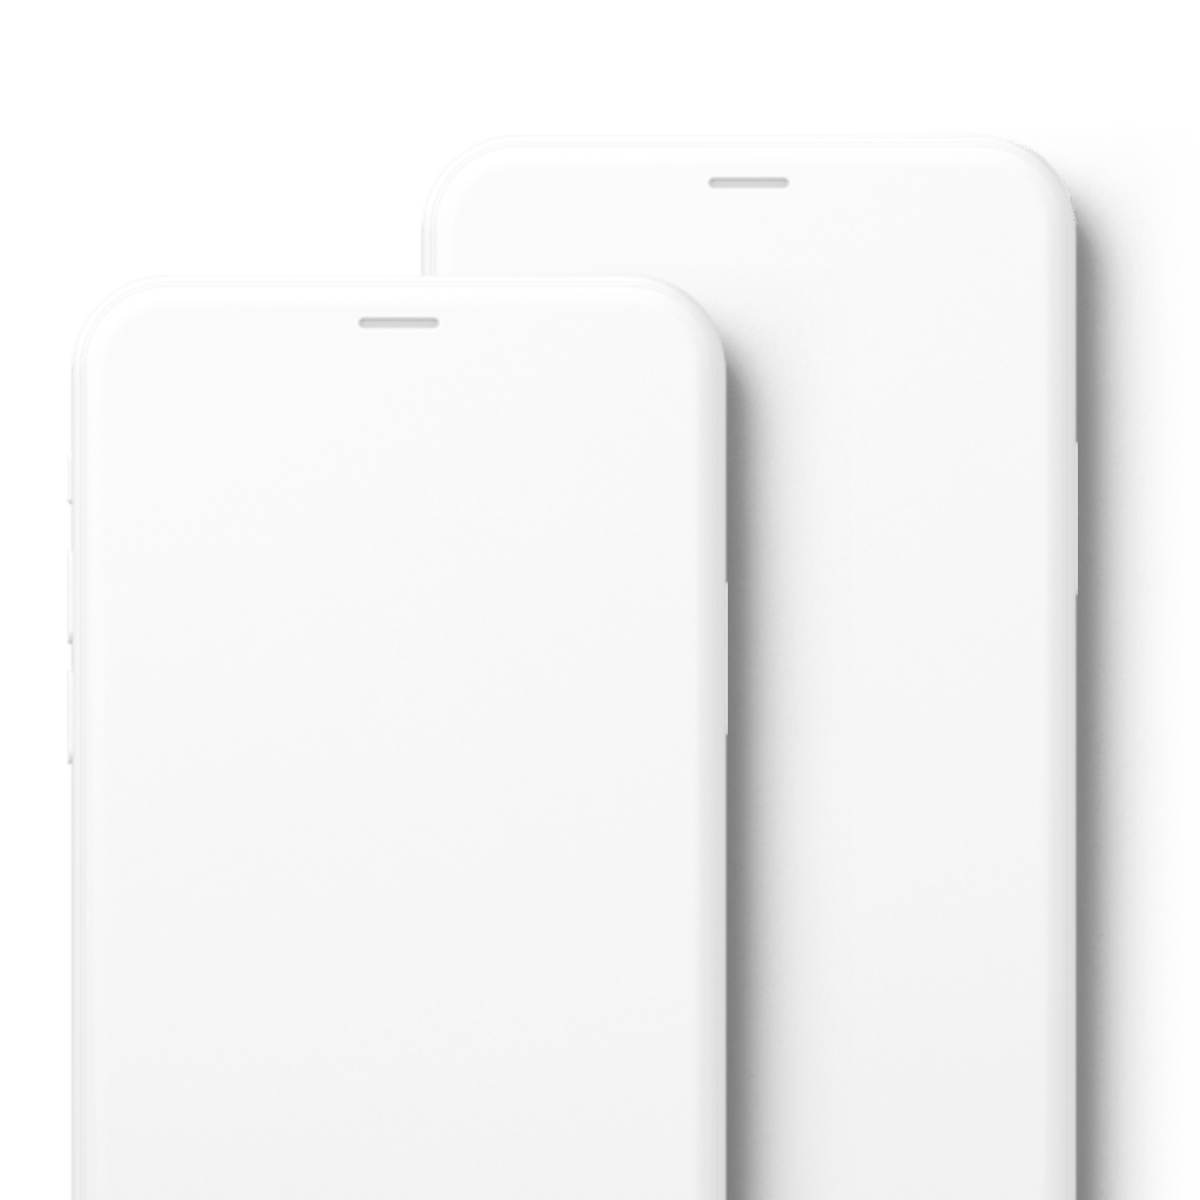
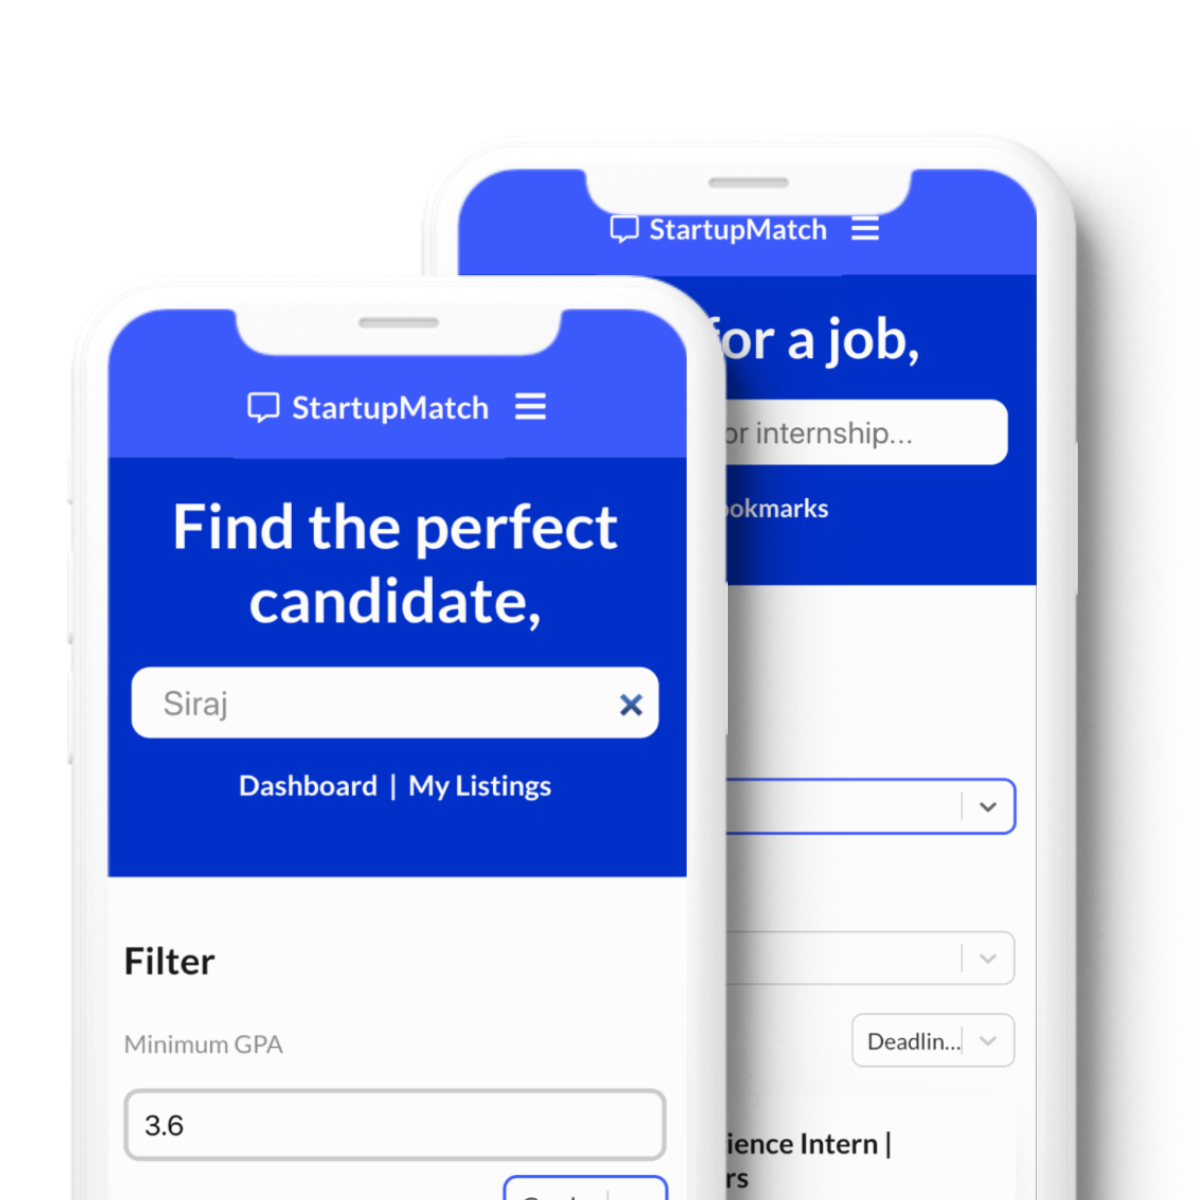
add website info

diff --git a/src/views/StartupMatch.js b/src/views/StartupMatch.js
@@ -60,61 +60,76 @@ export default class StartupMatch extends Component {
                     </section>
                 </article>
 
-                <article className="case locked">
+                <article className="case">
                     <h2><span>01.</span> Planning</h2>
                     <div className="row">
-                        <div className="six columns">
+                        <div className="twelve columns">
+                            <h3>Users and Research</h3>
                             <p>
-                                Contrary to popular belief, Lorem Ipsum is not simply random text. It has roots in a
-                                piece of classical
-                                Latin literature from 45 BC, making it over 2000 years old. Richard McClintock, a Latin
-                                professor at
-                                Hampden-Sydney College in Virginia, looked up one of the more obscure Latin words,
-                                consectetur, from
-                                a Lorem Ipsum passage, and going through the cites of the word in classical literature,
-                                discovered
-                                the undoubtable source. Lorem Ipsum comes from sections 1.10.32 and 1.10.33 of "de
-                                Finibus Bonorum et
-                                Malorum"
-                            </p>
-                        </div>
-                        <div className="six columns">
-                            <p>
-                                This book is a treatise on the
-                                theory of ethics, very popular during the Renaissance.
-                                The first line of Lorem Ipsum, "Lorem ipsum
-                                dolor sit amet..", comes from a line in section 1.10.32. The standard chunk of Lorem
-                                Ipsum used
-                                since the 1500s is reproduced below for those interested. Sections 1.10.32 and 1.10.33
-                                from "de
-                                Finibus Bonorum et Malorum" by Cicero are also reproduced in their exact original form,
-                                accompanied
-                                by English versions from the 1914 translation by H. Rackham.
+                                <a href="https://founders.illinois.edu" className="box-link" target="_blank" rel="noreferrer noopener">Founders</a> aims to promote startup creation, funding and growth within the University of Illinois Urbana-Champaign.
+                                At the request of many of its supported startups Founder's is making a job board for UIUC students to gain experience
+                                working in both their field and in a startup environment. The primary function of the job board is to allow <a href="https://entrepreneurship.illinois.edu/startups/" className="box-link" target="_blank" rel="noreferrer noopener">UIUC
+                                startups</a> to post job listings and allow students of the university to find and apply to relevant positions.
+
+                            </p><br /><p>Due to these core actions being integral
+                                to the purpose of the job board, I decided that two completely seperate user flows, and therefore user experiences, with necessary within the same
+                                interface. The first one for the startups to maintain listings, search for students and update their company's profile and the other for students
+                                to hunt for positions, go through with applying to said positions and update their personal profiles for startup's to view. Pictured below is the user flow
+                                for the startup's posting jobs and filtering through applications.
                             </p>
                         </div>
                     </div>
+                    <div className="row">
+                        <img src="/images/jobboard-userflow.png" alt="Job Board User flow" className="columns twelve"/>
+                    </div>
+                    <div className="row">
+                        <div className="twelve columns">
+                            <h3>Architecture</h3>
+                            <p>
+                                From the aforementioned user flow, in addition to a general list of required documentation pages, a list of necessary webpages
+                                was created for the application. This list was subsequently visualized into a sitemap with paths that connect
+                                intended user flows and likely paths of interactions. In addition to the paths each page has been placed into a category based
+                                on its purposed. The left part of the map, beneath the reference pages, represents webpages accessible by a student or applicant, while the opposite side is for the startups.
+                            </p>
+                        </div>
+                    </div>
+                    <div className="row">
+                        <img src="/images/jobboard-sitemap.png" alt="Job Board Sitemap" className="columns twelve"/>
+                    </div>
                     <h2><span>02.</span> Prototyping</h2>
                     <p>
-                        Contrary to popular belief, Lorem Ipsum is not simply random text. It has roots in a piece of
-                        classical
-                        Latin literature from 45 BC, making it over 2000 years old. Richard McClintock, a Latin
-                        professor at
-                        Hampden-Sydney College in Virginia, looked up one of the more obscure Latin words, consectetur,
-                        from
-                        a Lorem Ipsum passage, and going through the cites of the word in classical literature,
-                        discovered
-                        the undoubtable source. Lorem Ipsum comes from sections 1.10.32 and 1.10.33 of "de Finibus
-                        Bonorum et
-                        Malorum" (The Extremes of Good and Evil) by Cicero, written in 45 BC. This book is a treatise on
-                        the
-                        theory of ethics, very popular during the Renaissance. The first line of Lorem Ipsum, "Lorem
-                        ipsum
-                        dolor sit amet..", comes from a line in section 1.10.32. The standard chunk of Lorem Ipsum used
-                        since the 1500s is reproduced below for those interested. Sections 1.10.32 and 1.10.33 from "de
-                        Finibus Bonorum et Malorum" by Cicero are also reproduced in their exact original form,
-                        accompanied
-                        by English versions from the 1914 translation by H. Rackham.
+                        After defining what the user experience of the web app will need to encompass, I moved forward with prototyping
+                        components of the job board itself with paper wireframes in order to quickly compare options for layouts and interactions.
+                        Below are wireframes of a navigation bar, card for job listings, icons, individual page layouts and their mobile equivalents.
                     </p>
+                    <div className="row">
+                        <img src="/images/jobboard-wireframe-1.jpg" alt="Job Board Wireframes 1" className="columns four"/>
+                        <img src="/images/jobboard-wireframe-2.jpg" alt="Job Board Wireframes 2" className="columns four"/>
+                        <img src="/images/jobboard-wireframe-3.jpg" alt="Job Board Wireframes 3" className="columns four"/>
+                    </div>
+                    <p>
+                        Lastly, before making high-fidelity mockups, I developed a visual style guide for components within the application
+                        to have uniform branding. This stylesheet can be seen below.
+                    </p>
+                    <div className="row">
+                        <img src="/images/job-board-styles.png" alt="Job Board Visual Style Sheet" className="columns twelve"/>
+                    </div>
+                    <h2><span>02.</span> Final Design</h2>
+                        <div className="row">
+                            <img src="/images/startupmatch/jobs.png" alt="Job Board Final 1" className="columns six"/>
+                            <img src="/images/startupmatch/login.png" alt="Job Board Final 2" className="columns six"/>
+                        </div>
+                        <div className="row">
+                            <img src="/images/startupmatch/newlisting.png" alt="Job Board Final 3" className="columns six"/>
+                            <img src="/images/startupmatch/settings.png" alt="Job Board Final 4" className="columns six"/>
+                        </div>
+                    <h2><span>03.</span> Development</h2>
+                    <div className="row">
+                        <p>The final design was implemented using React.JS with Redux. The user interface was designed with a
+                        component system in mind from the wireframe stage so the translation into a frontend interface using
+                        a JavaScript framework was a natural one. The content is fed from a mySQL GCP database through a Django
+                        REST API backend.</p>
+                    </div>
                 </article>
             </main>
         )

diff --git a/src/views/Music.js b/src/views/Music.js
@@ -1,0 +1,104 @@
+import React, { Component } from 'react';
+
+import '../css/case.css';
+
+const styleTemp = {
+    backgroundColor: "#44C1BB",
+    backgroundImage: "url(\"/images/music.png\")",
+};
+
+export default class Music extends Component {
+    state = {
+
+    };
+
+    componentDidMount() {
+        document.title = "Siraj Chokshi - Music Streaming UI";
+        window.scrollTo(0, 0);
+    }
+
+    render () {
+        return (
+            <main>
+                <section className="project-header-card mobile" style={styleTemp} />
+                <div className="info mobile">
+                    <h2>Music Streaming UI</h2>
+                    <h3>2017 &middot; UI/UX Design</h3>
+                </div>
+                <section className="project-header-card" style={styleTemp}>
+                    <div className="info">
+                        <h2>Music Streaming UI</h2>
+                        <h3>2017 &middot; UI/UX Design</h3>
+                    </div>
+                </section>
+                <article className="row" id="sub-header">
+                    <section className="columns four">
+                        <h3>Scope</h3>
+                        <ul>
+                            <li style={{width: "90%"}}>Design a human-centered user interface for a music streaming
+                                mobile application.
+                            </li>
+                        </ul>
+                    </section>
+                    <section className="columns four">
+                        <h3>Skills</h3>
+                        <ul>
+                            <li>User Interface Design</li>
+                            <li>User Experience Design</li>
+                            <li>Rapid Prototyping</li>
+                            <li>Visual Design</li>
+                        </ul>
+                    </section>
+                    <section className="columns four">
+                        <h3>Tools</h3>
+                        <ul>
+                            <li>Figma</li>
+                            <li>Balsalmiq</li>
+                            <li>Photoshop</li>
+                        </ul>
+                    </section>
+                </article>
+
+                <article className="case">
+                    <h2><span>01.</span> Planning</h2>
+                            <p>I started out by looking through several popular music playing services (i.e; Spotify,
+                                Deezer and Apple Music). I then noted what I liked or disliked about said services and
+                                created guidelines towards what was necessary in the UI of music streaming applications.
+                                I aimed to make my interface intuitive, easy to use and comfortable to operate. My first
+                                plans were sketched with pen on paper and I then moved to Balsamiq for some low-fi mockups.
+                            </p>
+                    <div className="twelve columns">
+                        <img loading="lazy" src="/images/music/planning.png" alt="Music UI Paper Prototype" />
+                    </div>
+                    <h2><span>02.</span> Design</h2>
+                    <p>In Balsamiq I consolidated my many drafts into one uniform design system. When creating low-fi
+                        mockups and wireframes I put the majority of my focus on the layout of elements as well as their
+                        size. After being satisfied by the mockups I had created in Balsamiq I started to plan out the
+                        final design. I used the low-fi mockups as references to create a fully featured interface in
+                        Figma. At this stage, after creating some icons in Illustrator, I decided to use a dark theme
+                        as the focus for music streaming is the music and not the visuals. I also created an accent
+                        gradient in a teal color to compliment the interface's dark UI.
+                    </p>
+                    <div className="twelve columns">
+                        <img loading="lazy" src="/images/music/wireframe.png" alt="Music UI Wireframe" />
+                    </div>
+                    <h2><span>03.</span> Result</h2>
+                    <p>Once I had exported my final screens from Figma I created a Photoshop mockup with a basic
+                        interaction. The design features a dark interface with a teal gradient accent and offers
+                        a search feature, menu, music player and database. Design choices were made in order
+                        to create a convenient user experience such as a right aligned play button on album
+                        and artist pages for the majority of users who are right-handed. Users can
+                        follow artists, click expanded menus on songs, see an artist's most played songs,
+                        view their time in a song with the bottom progress bar and more.</p>
+                    <div className="row">
+                        <div className="one-half column" ><img loading="lazy" src="/images/music/final.png" alt="Music UI Final Design" /></div>
+                        <div className="one-half column" ><img loading="lazy" src="/images/music/vid.gif" style={{width: "100%"}} className="one-half column" alt="Music UI Final Animation" /></div>
+                    </div>
+                    <div className="twelve columns">
+                        <img loading="lazy" src="/images/music/mobile.png" alt="Music Final Mobile UI" />
+                    </div>
+                </article>
+            </main>
+        )
+    }
+}

diff --git a/src/css/main.css b/src/css/main.css
@@ -329,6 +329,19 @@ section.project-card#finance a.button {
     background-color: #FFFFFF;
 }
 
+section.project-card#music {
+    background-color: #44C1BB;
+    background-image: url("/images/music.png");
+    background-position: bottom right;
+    background-size: contain;
+    background-repeat: no-repeat;
+}
+
+section.project-card#music a.button {
+    color: #44C1BB;
+    background-color: #FFFFFF;
+}
+
 @media only screen and (max-width: 925px) {
 
     #startupmatch .info {
@@ -341,6 +354,10 @@ section.project-card#finance a.button {
 
     #finance .info {
         background-color: rgba(40, 40, 40, 0.9);
+    }
+
+    #music .info {
+        background-color: rgba(64, 184, 178, 0.90);
     }
 }
 

diff --git a/src/views/Work.js b/src/views/Work.js
@@ -41,6 +41,13 @@ export default class Work extends Component {
                         projectDesc="A concept for a financial app design combining a transaction management system, stock
                                      portfolio and card database."
                     />
+                    <ProjectCard
+                        projectID="music"
+                        projectName="Music Streaming UI"
+                        projectYear="2017"
+                        projectCategory={"UI/UX Design"}
+                        projectDesc="A user interface design for a music streaming service."
+                    />
                 </article>
             </>
         )

diff --git a/src/App.js b/src/App.js
@@ -10,6 +10,7 @@ import About from './views/About';
 import Resume from './views/Resume';
 import FileManager from './views/FileManager';
 import Finance from "./views/Finance";
+import Music from "./views/Music"
 
 // Components
 import Nav from './components/Nav';
@@ -37,6 +38,9 @@ function App() {
             )}/>
             <Route exact={true} path='/work/finance' render={() => (
                 <Finance />
+            )}/>
+            <Route exact={true} path='/work/music' render={() => (
+                <Music />
             )}/>
             <Route exact={true} path='/about' render={() => (
                 <About />

diff --git a/src/index.js b/src/index.js
@@ -9,4 +9,4 @@ ReactDOM.render(<App />, document.getElementById('root'));
 // If you want your app to work offline and load faster, you can change
 // unregister() to register() below. Note this comes with some pitfalls.
 // Learn more about service workers: https://bit.ly/CRA-PWA
-serviceWorker.unregister();
+serviceWorker.register();
